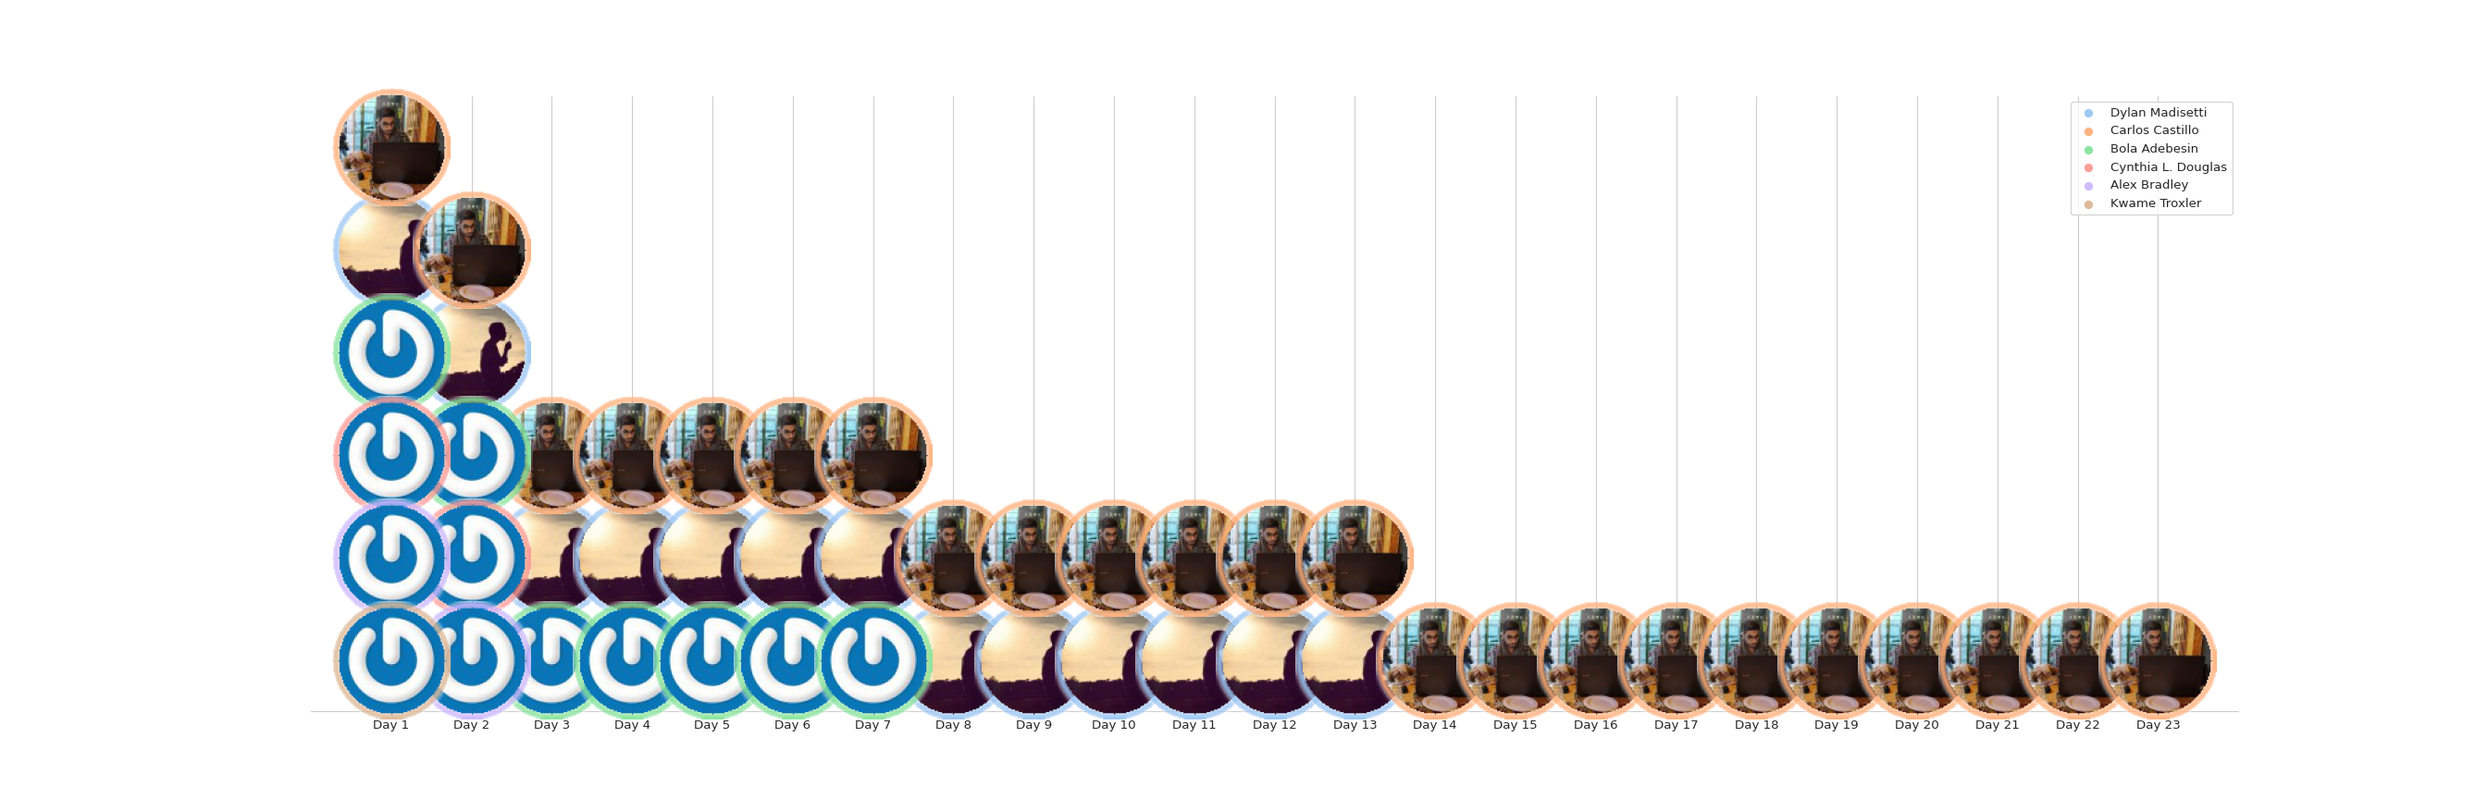
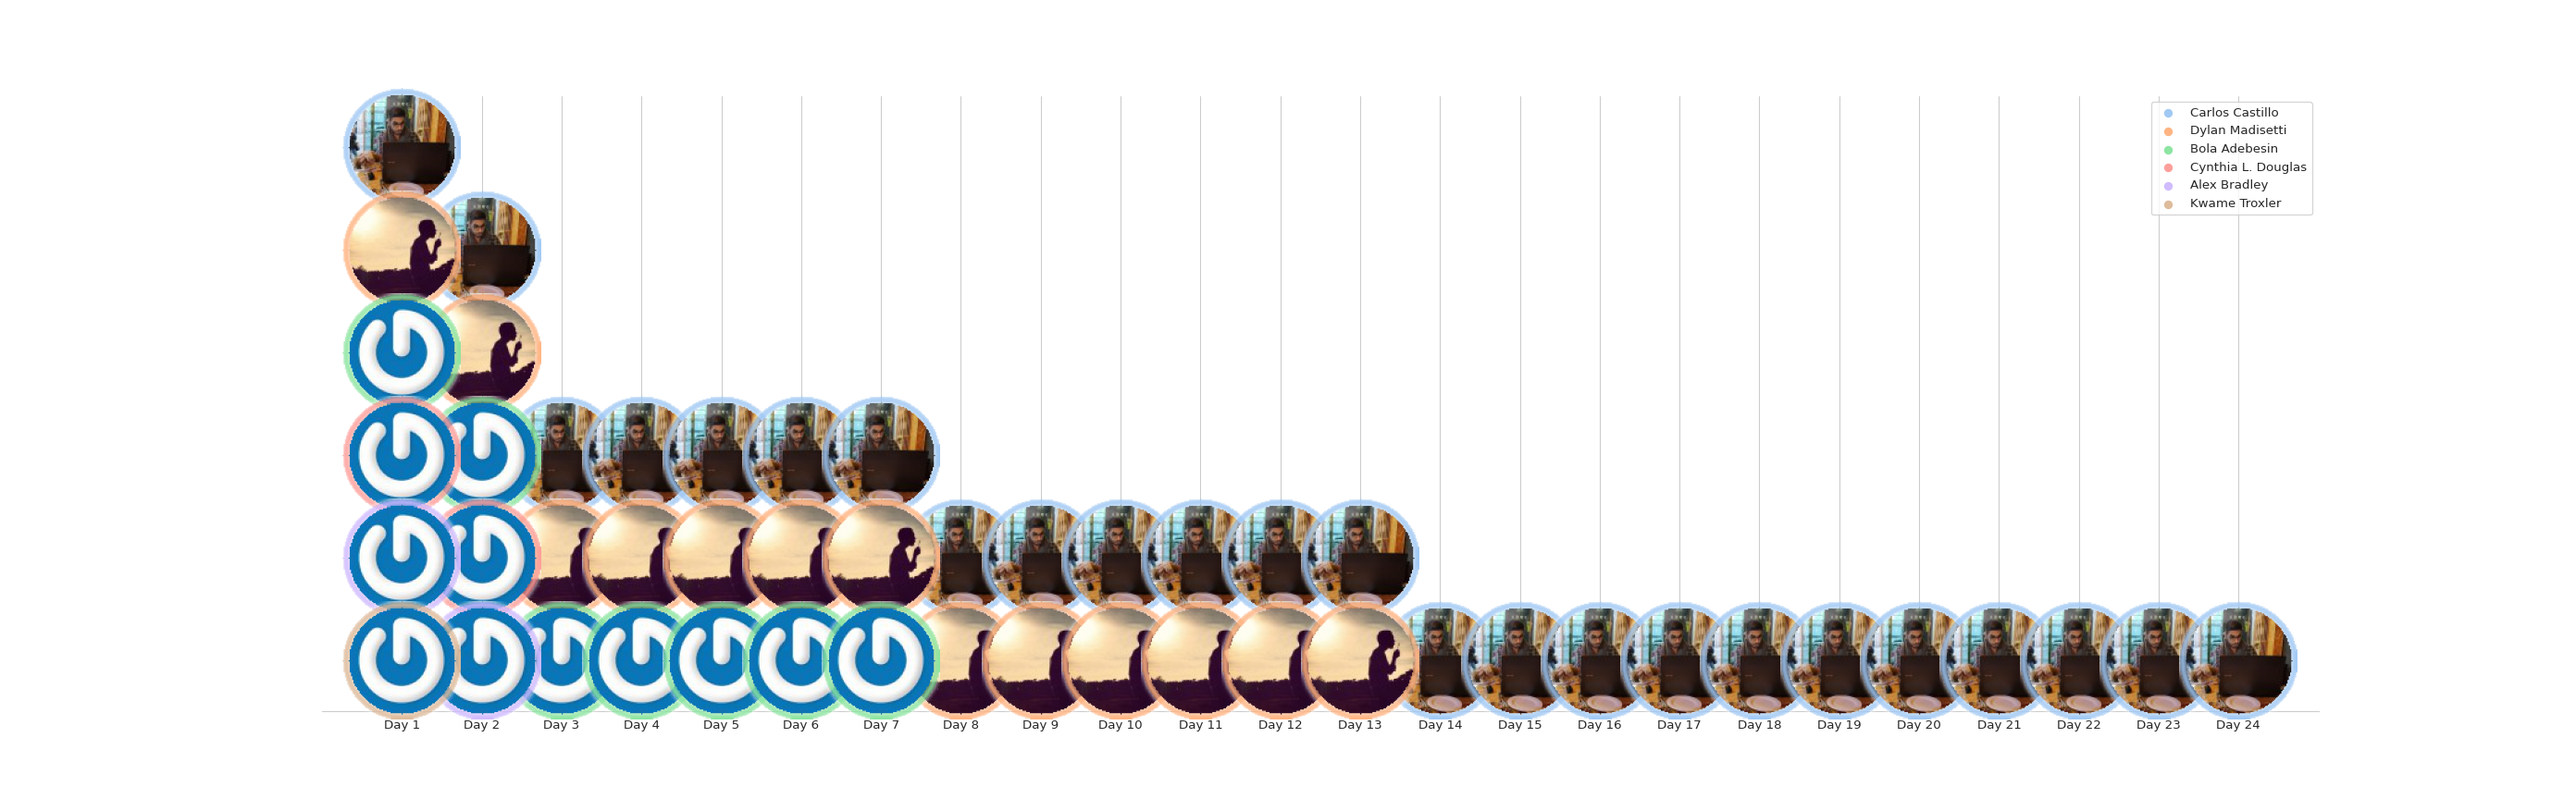
Deploying to gh-pages from @ baltimoreblacktechies/100daysOfCode-2021@98e585238ed7d524bae4b9f8aac95a85d21646c7 🚀

Changed region(s): [[0.125, 0.0938, 0.9062, 0.9375], [0.8438, 0.125, 0.9062, 0.2812]]

diff --git a/Castillo/index.html b/Castillo/index.html
@@ -400,6 +400,8 @@ Created python script to insert data from an array of JSONs.</p>
 <hr />
 <p>Continued in LJSTHW</p>
 <hr />
+<p>Continued with LJSTHW and built a game using Node</p>
+<hr />
 <p>Continued tutorial from <a href="https://realpython.com/python-gui-tkinter/">Real Python</a>. Learned about Frames</p>
 <p>Link to <a href="https://github.com/crc8109/PythonGUI_Tkinter">repo</a>:</p>
 <p>No link to live code.</p>
